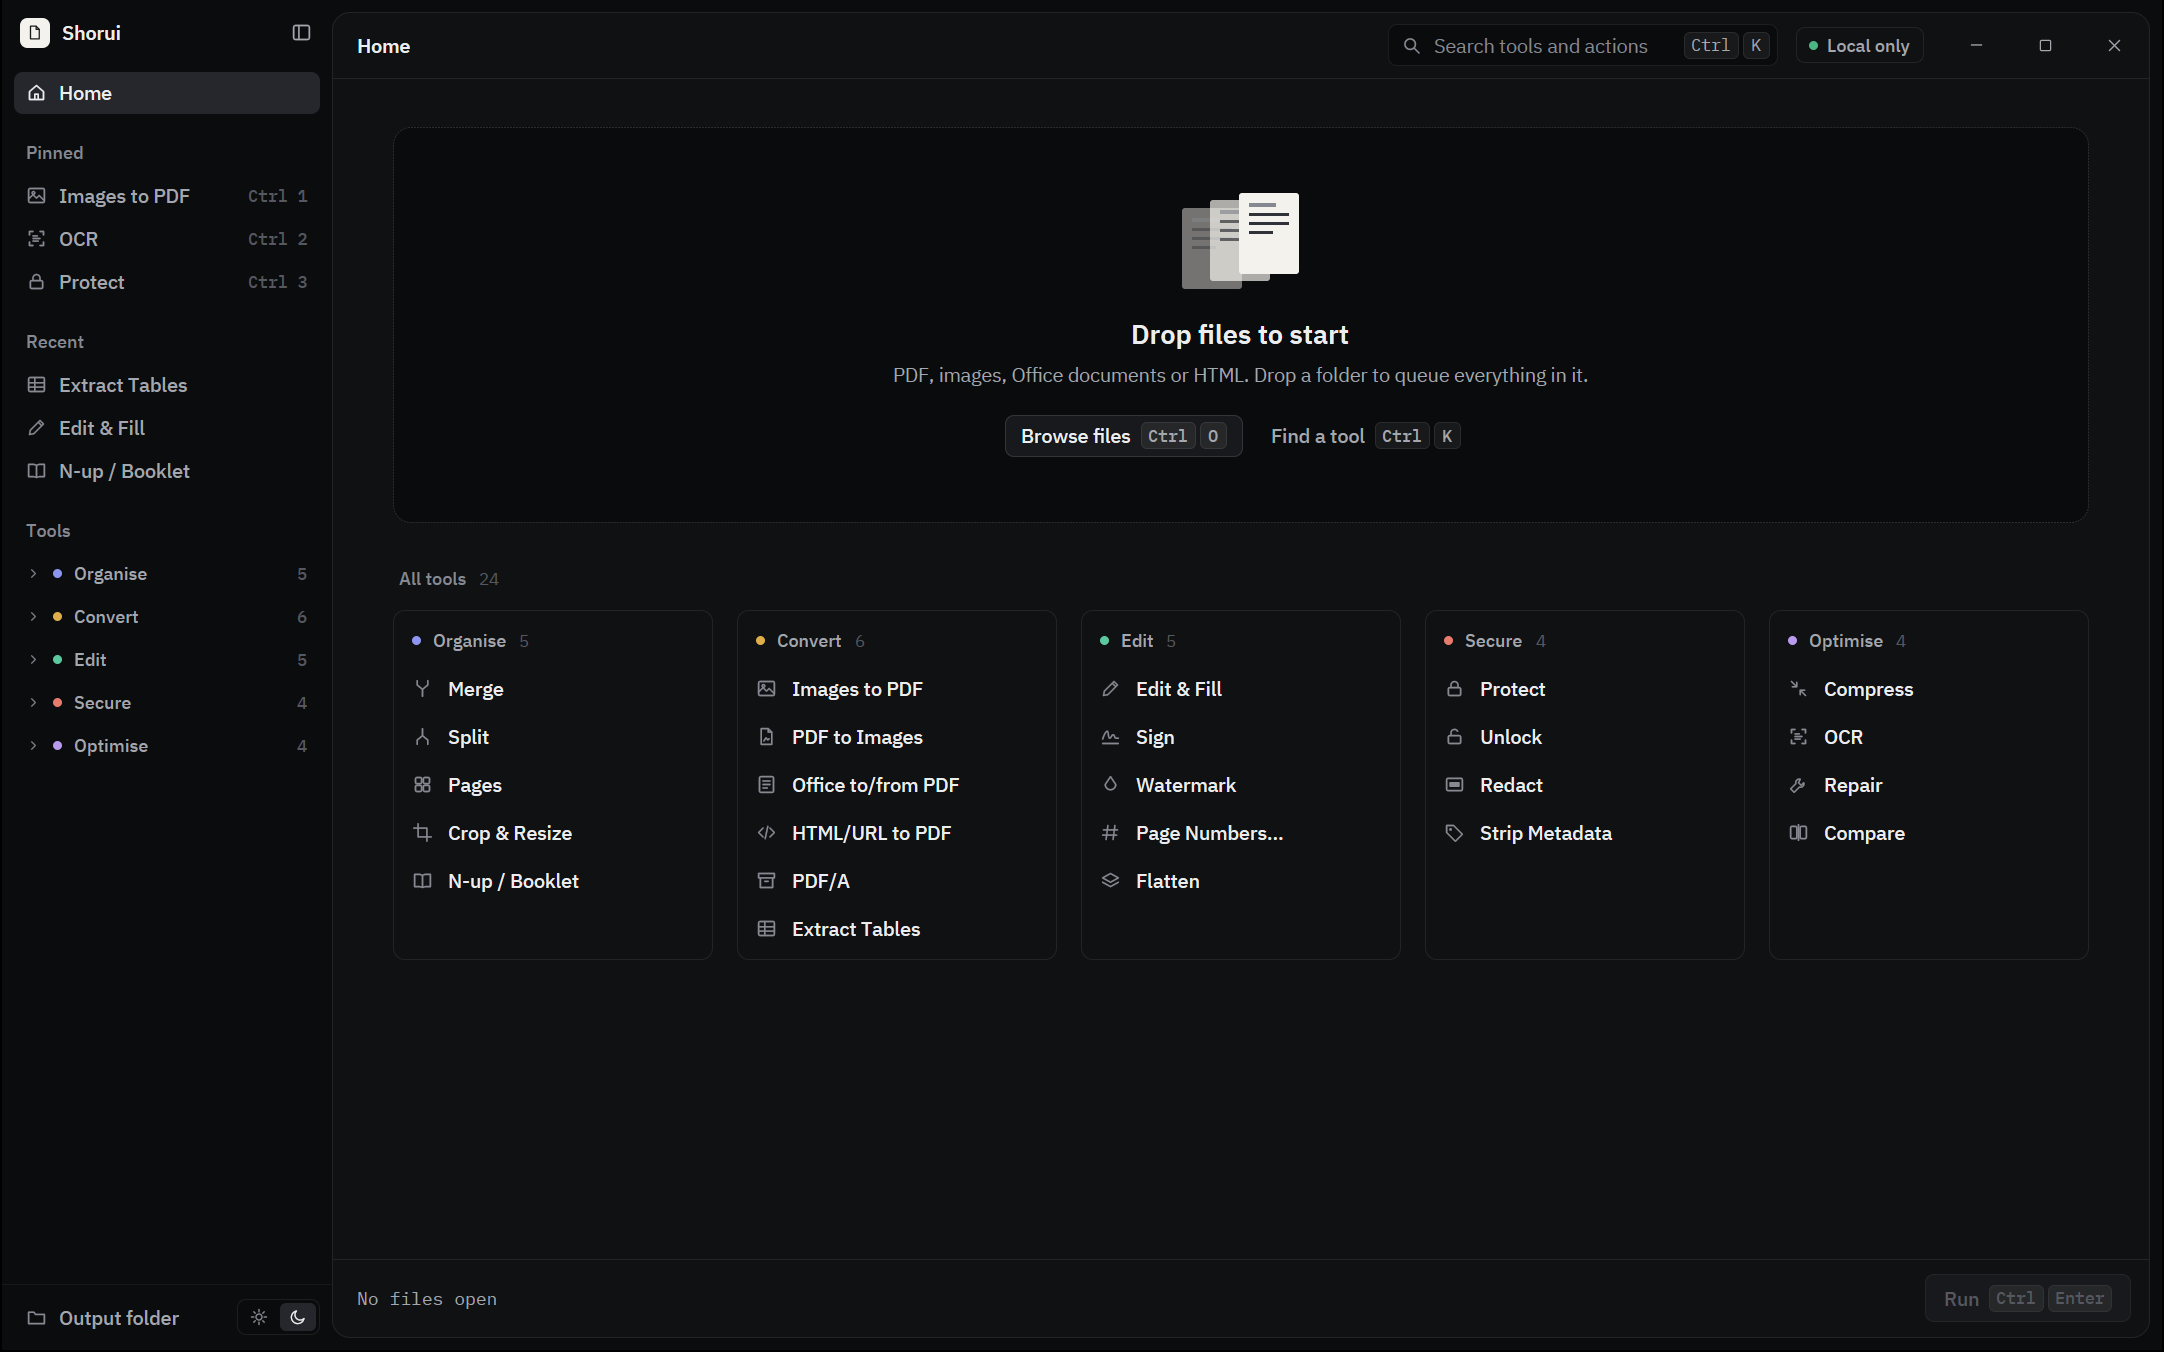
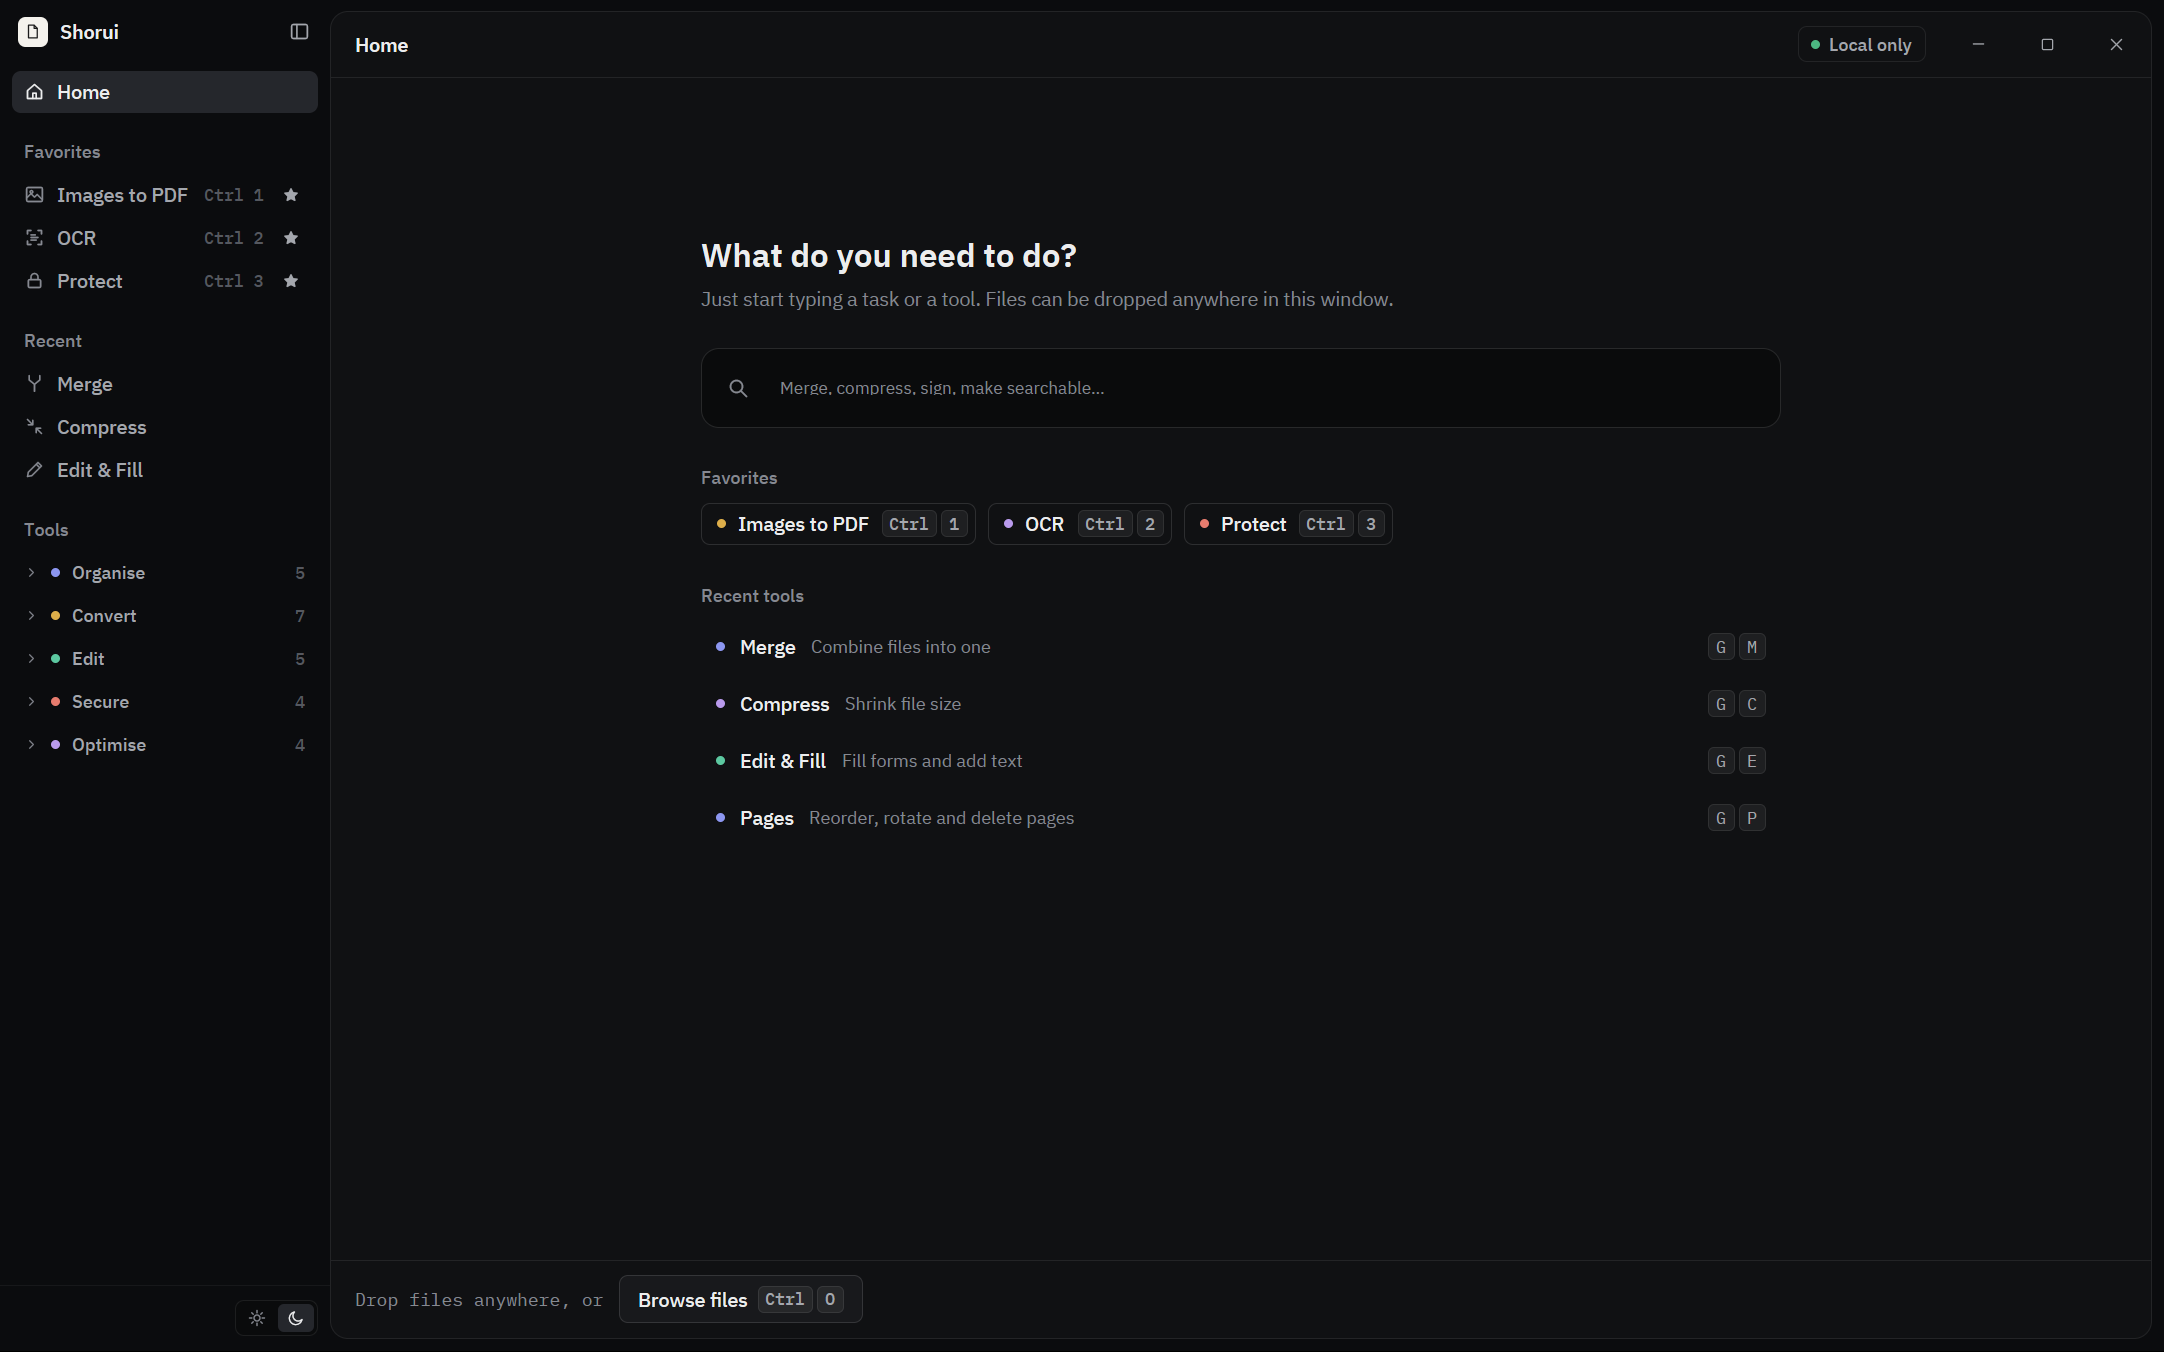
Show the new Home in the README

diff --git a/README.md b/README.md
@@ -82,10 +82,11 @@ a `.msi` for Windows and a `.dmg` for macOS (open it and drag Shorui to Applicat
 
 ### Start anywhere
 
-Drop files or a whole folder onto the window, or pick a tool first. Favourite and recent tools sit
-in the sidebar.
+Start typing on Home to find any tool or action. The search box there is the command palette, so
+"comp" offers Compress and Compare, and "encrypt" finds Protect. Or drop files or a whole folder
+onto the window first. Favourite and recent tools sit under the search and in the sidebar.
 
-![Home screen with the drop zone and all the tools grouped by kind](docs/screenshots/home.png)
+![Home screen with the search box, favourite tools and recent tools](docs/screenshots/home.png)
 
 ### Queue tools: set a few options, run
 
@@ -200,7 +201,7 @@ When a helper is missing, the tool says which one and how to get it.
 
 | Keys | Action |
 | --- | --- |
-| `Ctrl/Cmd K` | Command palette |
+| `Ctrl/Cmd K` | Command palette (on Home, the search box; there you can also just start typing) |
 | `Ctrl/Cmd O` | Add files |
 | `Ctrl/Cmd Enter` | Run the current tool |
 | `G` then a letter | Jump to a tool (`G M` Merge, `G C` Compress; the palette shows each one) |
